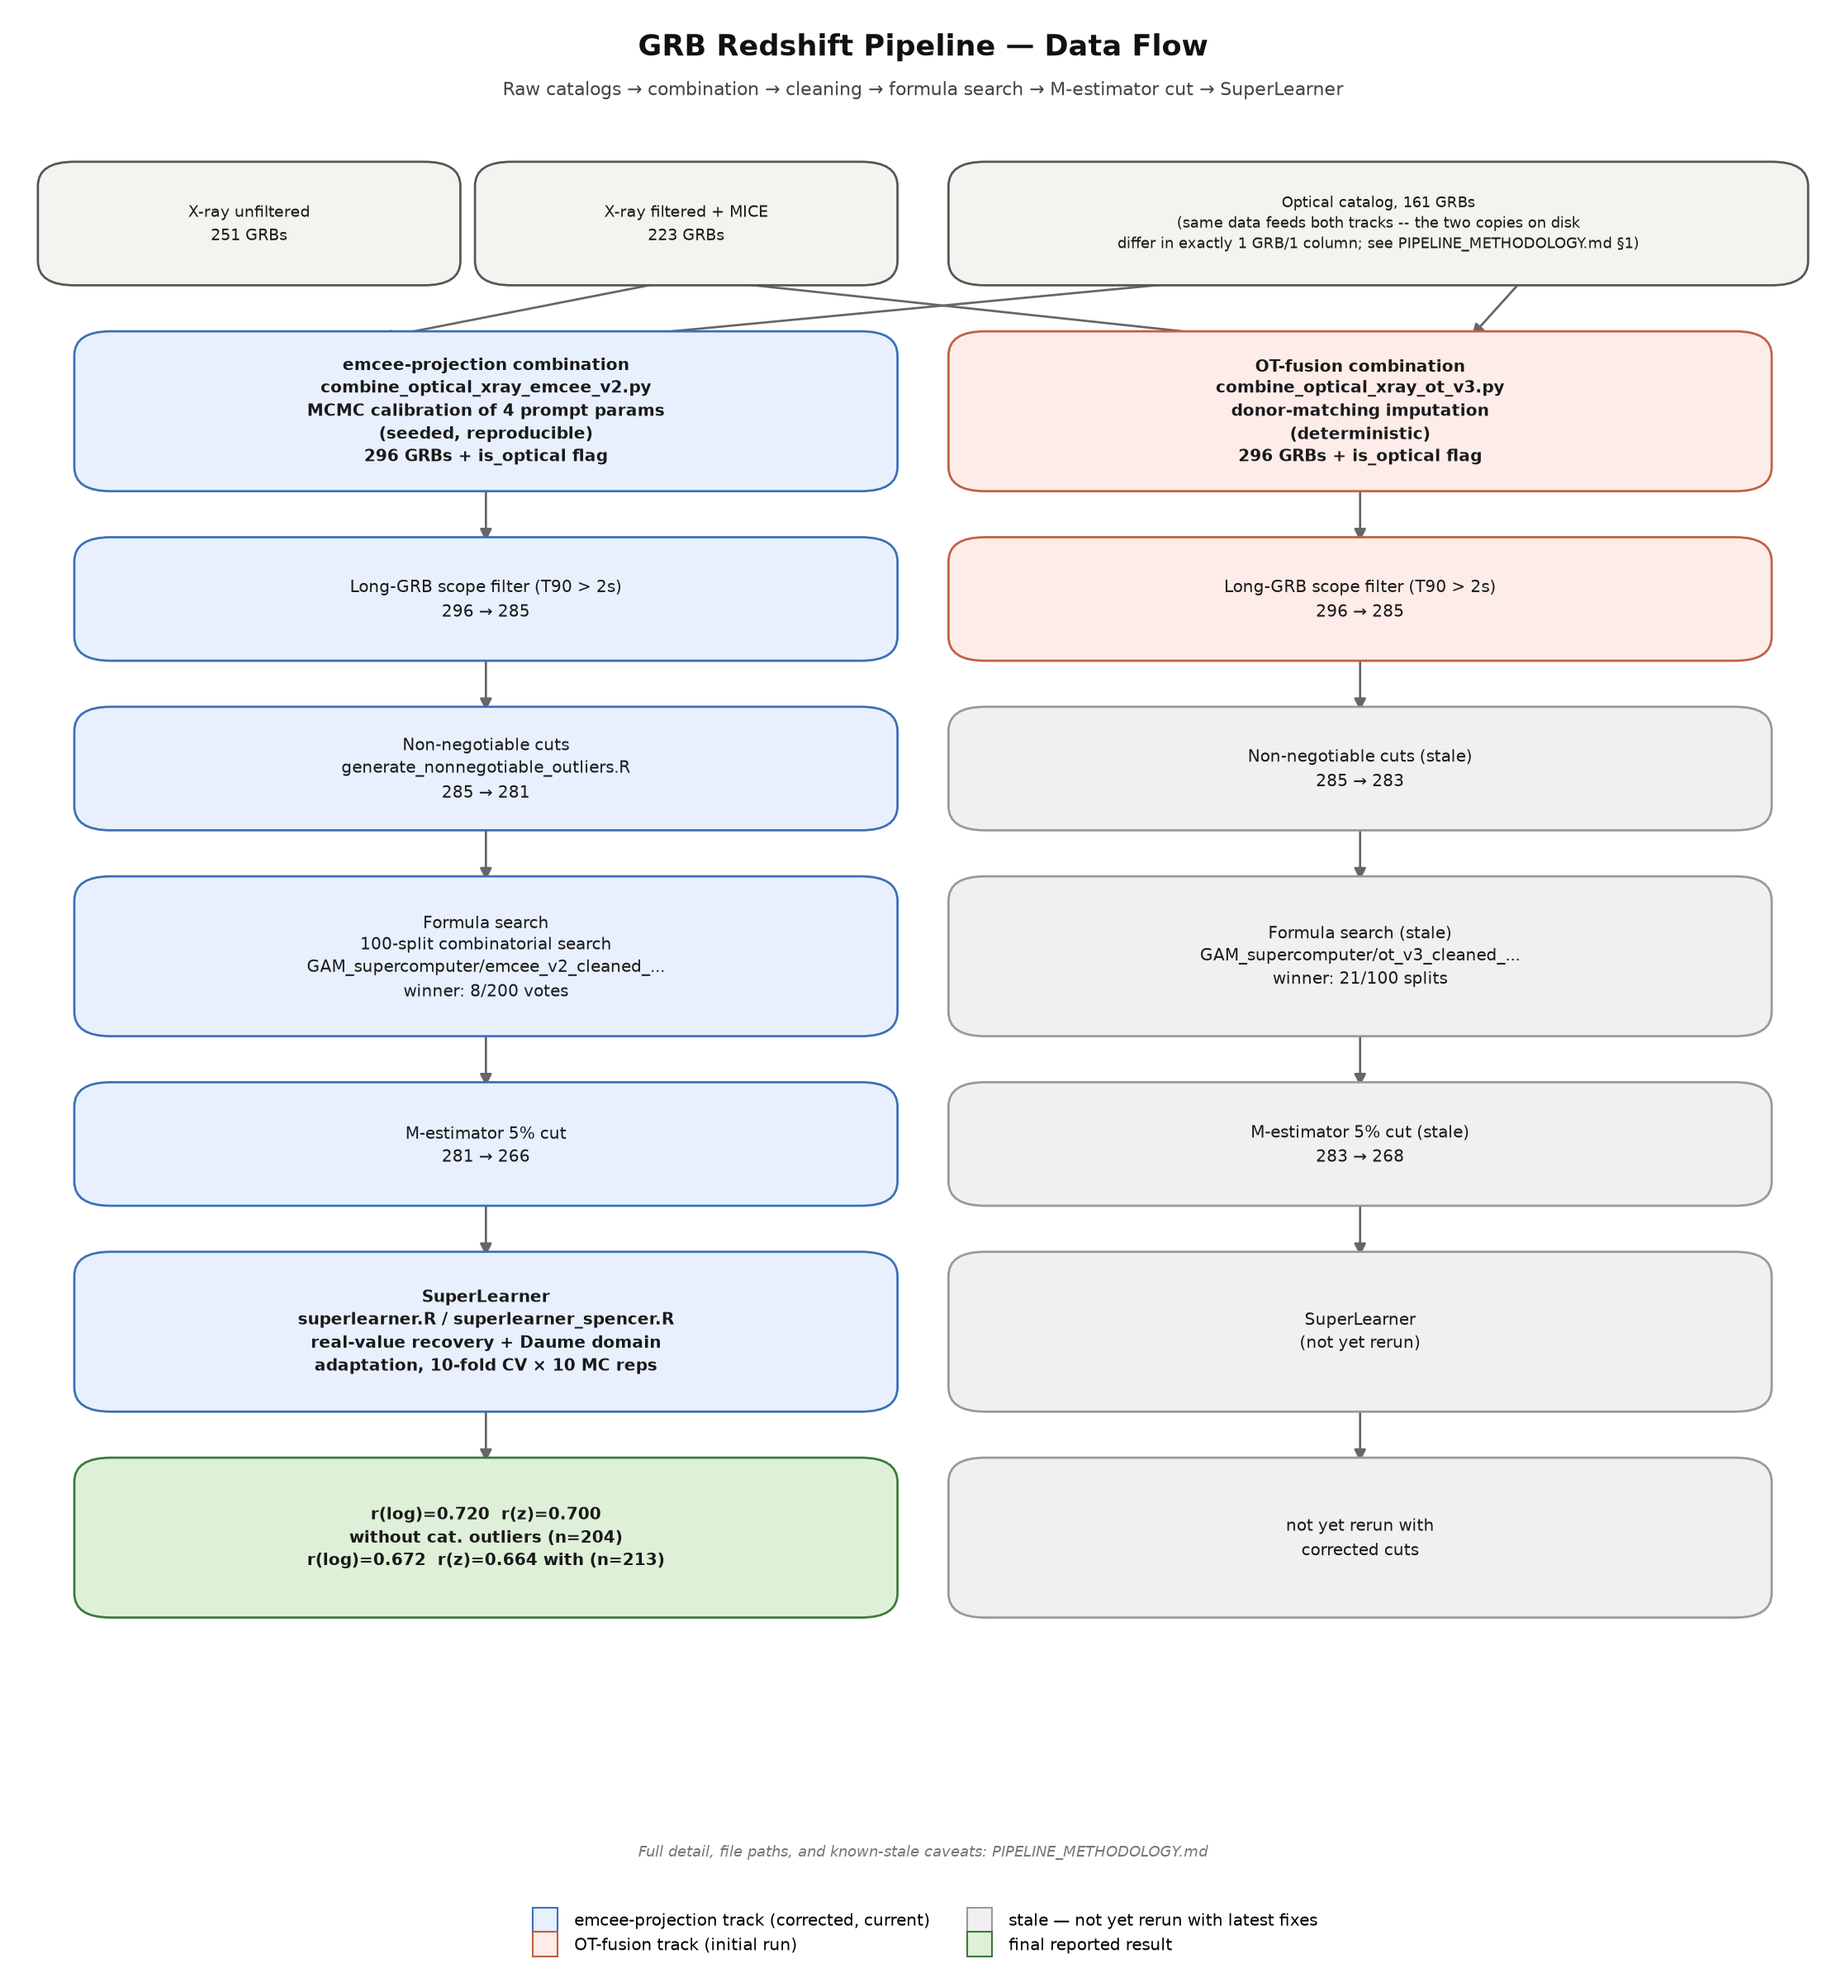
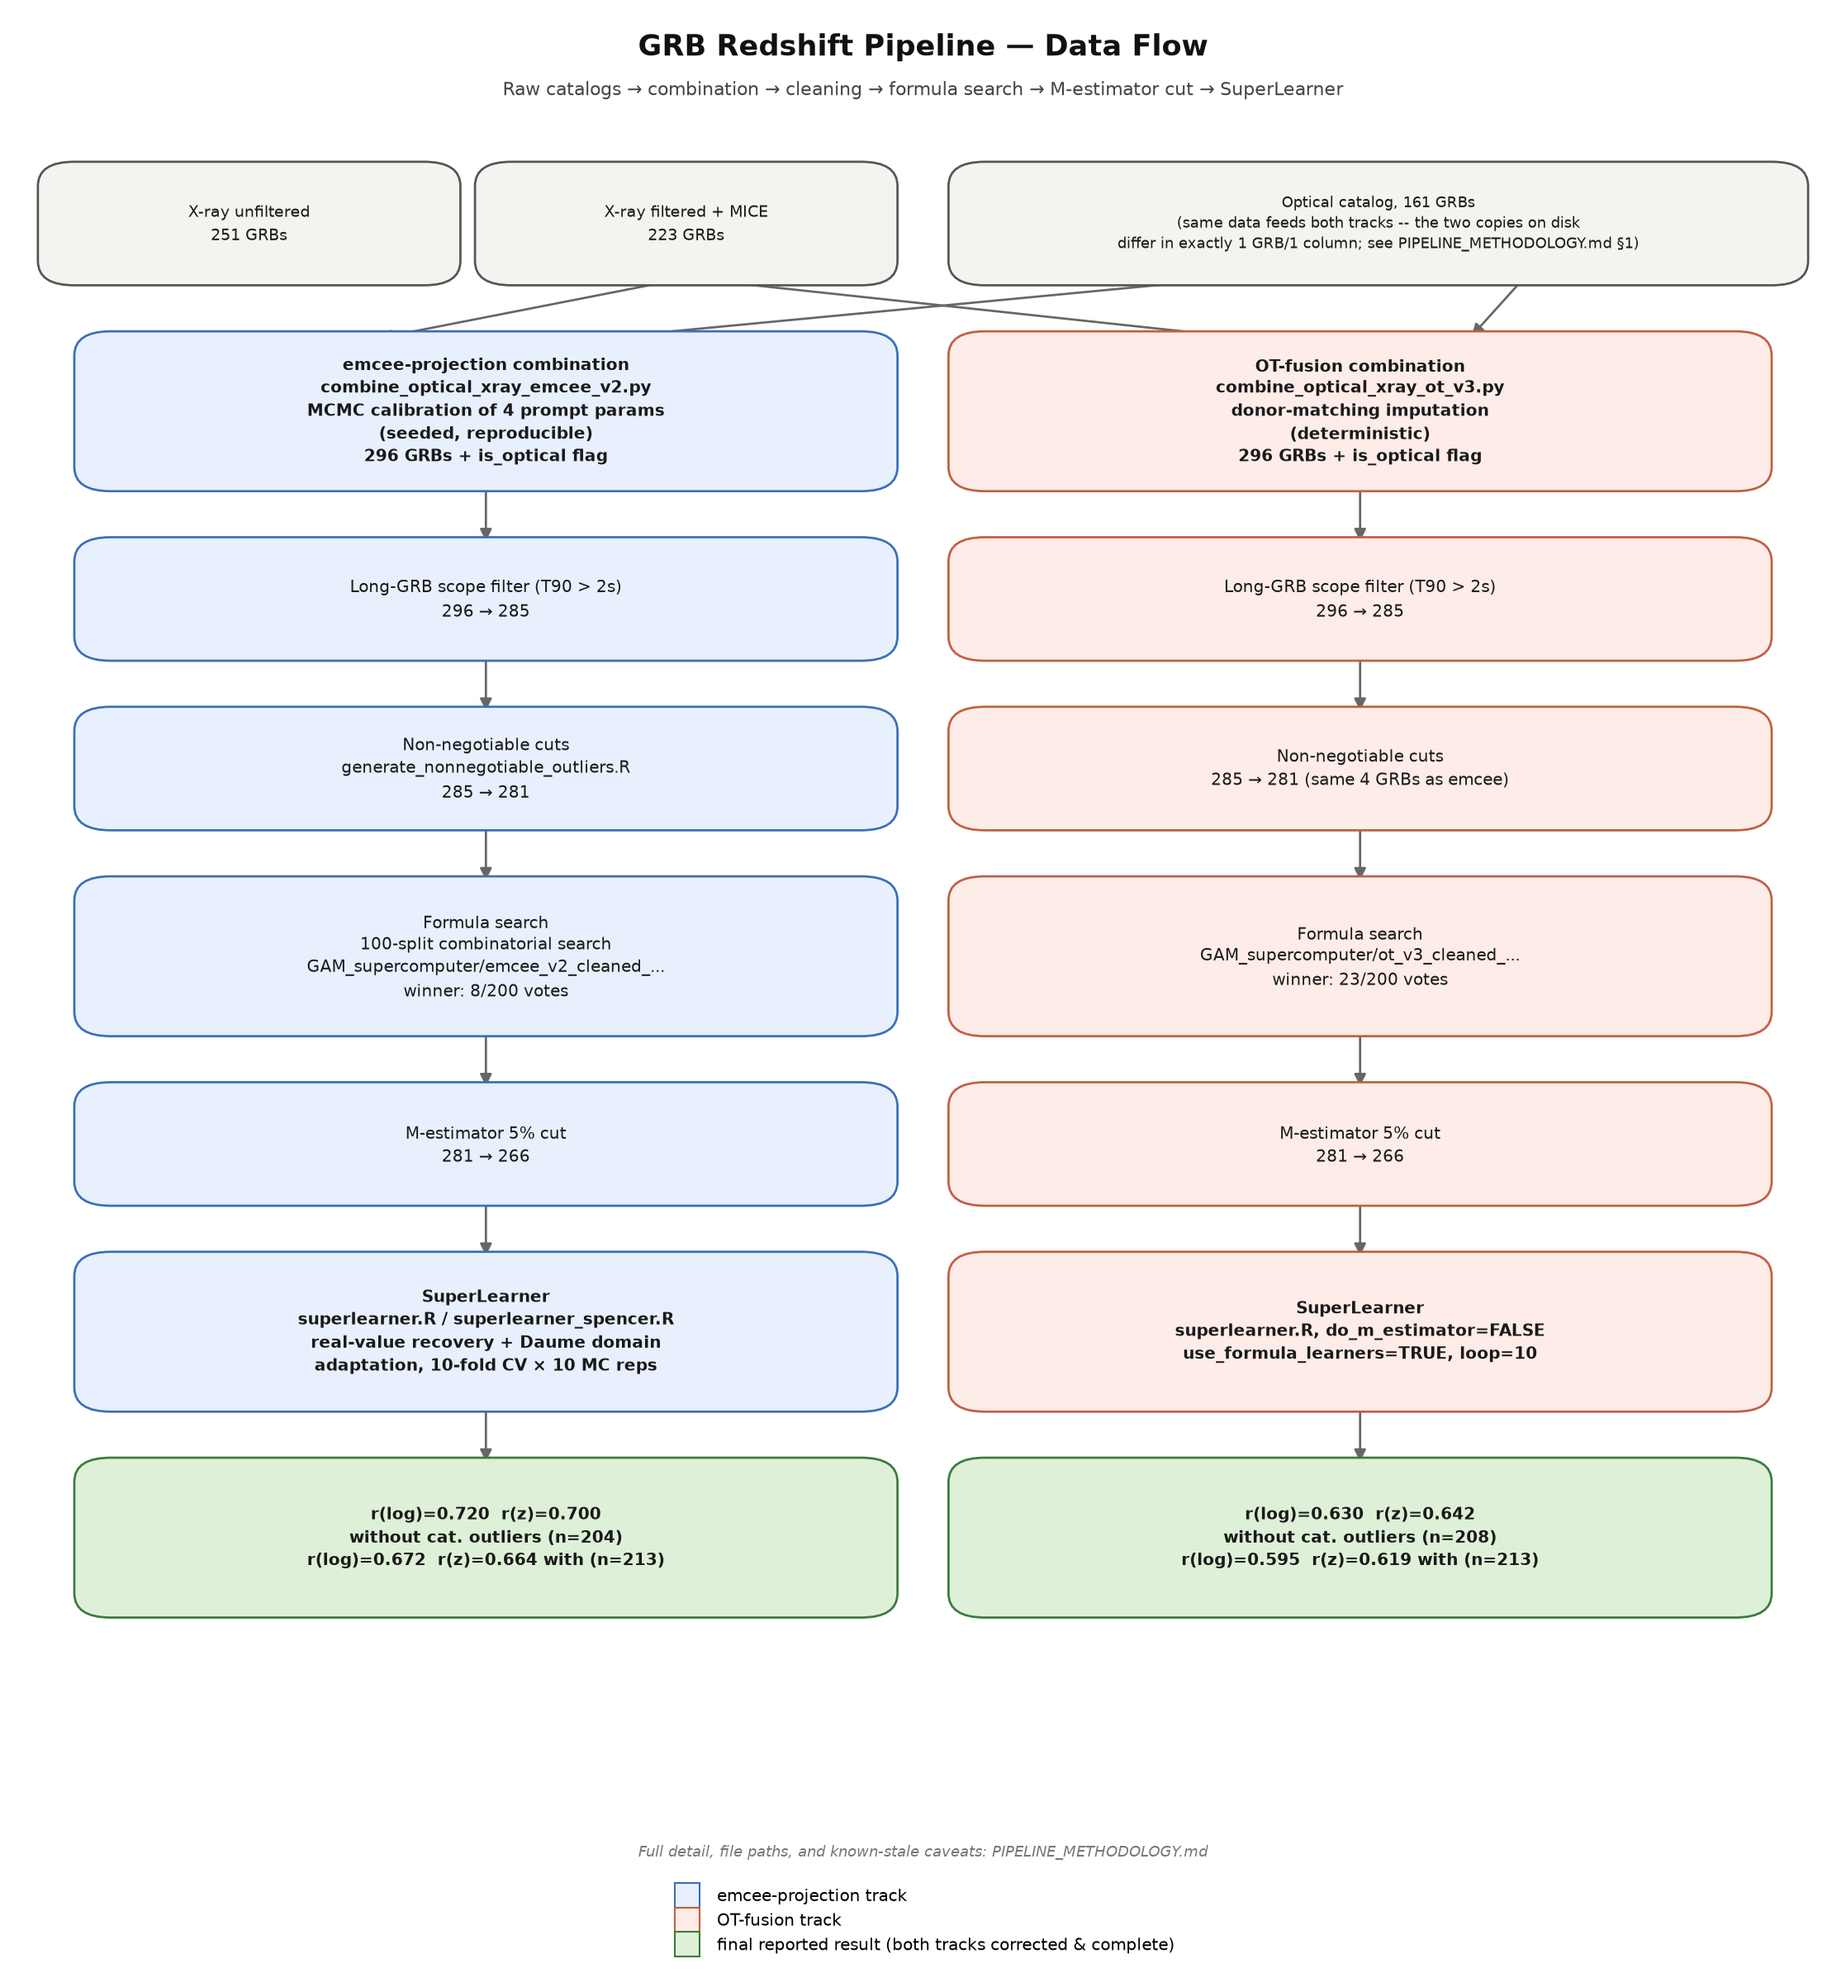
Correct stale-OT claims: a completed, corrected OT v3 run exists
PIPELINE_METHODOLOGY.md and the pipeline diagram both claimed OT v3 "has not
yet been rerun" with the corrected (Alpha/Beta/Fa/Ta-only) non-negotiable
cuts. That was wrong -- GAM_supercomputer/ot_v3_cleaned_formula_generation/
(with a pre_alphabetafata_fix_backup/ preserving the old run) and
runs/ot_v3_cleaned_linearz_5pct/ are the corrected, completed outputs:

- confirmed_outliers_to_drop.txt flags the identical 4 GRBs as emcee
  (285 -> 281, same non-negotiable cuts operate on shared X-ray-side data)
- grb_post_scope_filter_285.csv / final_outliers_removed.csv row counts
  (285, 266) match emcee's corrected pipeline exactly
- winning formula has the same term set as previously documented (just
  reordered), now with 23/200 votes instead of the old run's 21/100
- real CV/MC numbers pulled directly from Results/*.csv and
  OutputFiles/mc_predictions.csv: n=213 r(log)=0.595/r(z)=0.619 with cat.
  outliers, n=208 r(log)=0.630/r(z)=0.642 without, n=57 inside-2-sigma-cone
  MC r(log)=0.892/r(z)=0.908 -- OT trails emcee throughout but is a real,
  complete result, not a placeholder

Updated PIPELINE_METHODOLOGY.md sections 3/10/11 and regenerated the pipeline
diagram with real numbers for both tracks.

diff --git a/PIPELINE_METHODOLOGY.md b/PIPELINE_METHODOLOGY.md
@@ -160,10 +160,20 @@ but the automatic part can never silently drift out of sync again.
 
 Current counts (emcee v2, corrected criteria): 4 GRBs flagged
 (090516A, 100621A, 131117A, 230328B — one hard PhotonIndex<0 cut, three
-err>value:Beta) → 285 → **281**. OT v3 has **not yet been rerun** with this
-corrected (Alpha/Beta/Fa/Ta-only) criterion — its last run used the broader,
-now-superseded err>value check across all seven columns; treat OT's numbers
-below as stale pending a rerun.
+err>value:Beta) → 285 → **281**.
+
+**Correction (this pass): OT v3 *has* been rerun with the corrected criterion.**
+`GAM_supercomputer/ot_v3_cleaned_formula_generation/` (with a
+`pre_alphabetafata_fix_backup/` subfolder preserving the old broader-check run
+alongside it) and `runs/ot_v3_cleaned_linearz_5pct/` are the corrected outputs —
+confirmed via `confirmed_outliers_to_drop.txt` flagging the identical 4 GRBs
+as emcee (285 → 281, same non-negotiable cuts operate on the shared X-ray-side
+data for both tracks) and `grb_post_scope_filter_285.csv`/
+`final_outliers_removed.csv` row counts (285 and 266 respectively, matching
+emcee's M-estimator-cut count exactly). The stale run this section used to
+describe is preserved for reference in `pre_alphabetafata_fix_backup/` and in
+`daume_fix_comparison/` runs predating this fix; §10/§11 below now report the
+corrected OT numbers.
 
 ---
 
@@ -329,16 +339,16 @@ catastrophic-outlier retrain pass.
 
 ## 10. Final data-count summary
 
-| Stage | emcee v2 (linear-z, corrected) | OT v3 (stale — not yet rerun) | Paper (Dainotti et al. 2025) |
+| Stage | emcee v2 (linear-z, corrected) | OT v3 (linear-z, corrected) | Paper (Dainotti et al. 2025) |
 |---|---|---|---|
 | Combined dataset | 296 | 296 | — |
 | Long-GRB scope filter (T90>2s) | 285 | 285 | — |
-| Non-negotiable cuts (full removal) | **281** (−4) | 283 (stale) | — |
-| Pre-M-estimator pool | 281 | 283 (stale) | 238 |
-| M-estimator 5% cut | **266** (−15) | 268 (stale) | 226 (−12) |
-| SuperLearner CV (with cat. outliers) | n=213, r(log)=0.672, r(z)=0.664 | not yet rerun | — |
-| SuperLearner CV (without cat. outliers) | **n=204, r(log)=0.720, r(z)=0.700** | not yet rerun | — |
-| MC, inside 2σ cone | n=55, r(log)=0.964, r(z)=0.967 | not yet rerun | — |
+| Non-negotiable cuts (full removal) | **281** (−4) | **281** (−4, same 4 GRBs) | — |
+| Pre-M-estimator pool | 281 | 281 | 238 |
+| M-estimator 5% cut | **266** (−15) | **266** (−15) | 226 (−12) |
+| SuperLearner CV (with cat. outliers) | n=213, r(log)=0.672, r(z)=0.664 | n=213, r(log)=0.595, r(z)=0.619 | — |
+| SuperLearner CV (without cat. outliers) | **n=204, r(log)=0.720, r(z)=0.700** | n=208, r(log)=0.630, r(z)=0.642 | — |
+| MC, inside 2σ cone | n=55, r(log)=0.964, r(z)=0.967 | n=57, r(log)=0.892, r(z)=0.908 | — |
 
 emcee rerun on the new 266-GRB final data (`runs/emcee_v2_cleaned_linearz_
 5pct/`), plain `superlearner.R` (do_m_estimator=FALSE, use_formula_learners=
@@ -346,9 +356,17 @@ TRUE, loop=10) with the new linear-z winning formula (§11) installed. A real,
 meaningful improvement over the previous (269-GRB, pre-linear-z) result of
 r(log)=0.671/r(z)=0.660 — both the corrected non-negotiable cuts and the
 linear-z-selected formula appear to genuinely help, not just shuffle the
-sample. OT v3 has not been rerun with either the Alpha/Beta/Fa/Ta-only
-err>value fix or linear-z scoring — its row reflects the last actual run and
-should be treated as stale until rerun.
+sample.
+
+**Correction (this pass): OT v3's row above was previously marked stale —
+that was wrong.** `runs/ot_v3_cleaned_linearz_5pct/` is a completed run on
+the corrected 266-GRB data with the corrected linear-z-selected formula (§11)
+installed, same setup as emcee. Its own numbers (computed directly from
+`runs/ot_v3_cleaned_linearz_5pct/Results/*.csv` and `OutputFiles/
+mc_predictions.csv`) are real, not placeholders — OT trails emcee on r/RMSE
+throughout, consistent with the qualitative picture the (now-superseded)
+stale numbers already suggested, just with the actual corrected figures
+instead of stand-ins.
 
 ## 11. Winning formulas (final, on stable/reproducible data)
 
@@ -365,13 +383,19 @@ a linear-only term). Full formula list + plots:
 `formula_results/best_formulas_emcee_LINEARZ_run.csv` and
 `formula_results/plots/rmse_vs_correlation_emcee_LINEARZ_run.png`.
 
-**OT v3** (21/100 splits — stale, from the pre-linear-z, broader-err>value
-run; not yet rerun with either fix):
+**OT v3** (linear-z, corrected non-negotiable cuts; 23/200 votes, r+rmse
+tally with bias as gate — `GAM_supercomputer/ot_v3_cleaned_formula_generation/
+formula_win_frequency.csv`):
 ```
 Response ~ (log10FaSqr + log10Fa + log10PeakFlux)^2 + log10Ta + PhotonIndex +
     log10NH + Alpha + log10T90 + log10TaSqr + log10PeakFluxSqr +
     PhotonIndexSqr + log10NHSqr + AlphaSqr + log10T90Sqr
 ```
+Same term set as the formula previously documented here from the pre-fix run
+(only linear/Sqr term ordering differs, which R's formula parser treats as
+identical) — the winning structure didn't change when the criteria were
+corrected, only the vote tally (23/200 here vs. the pre-fix run's 21/100) and
+the downstream M-estimator/SuperLearner numbers in §10.
 
 ---
 
